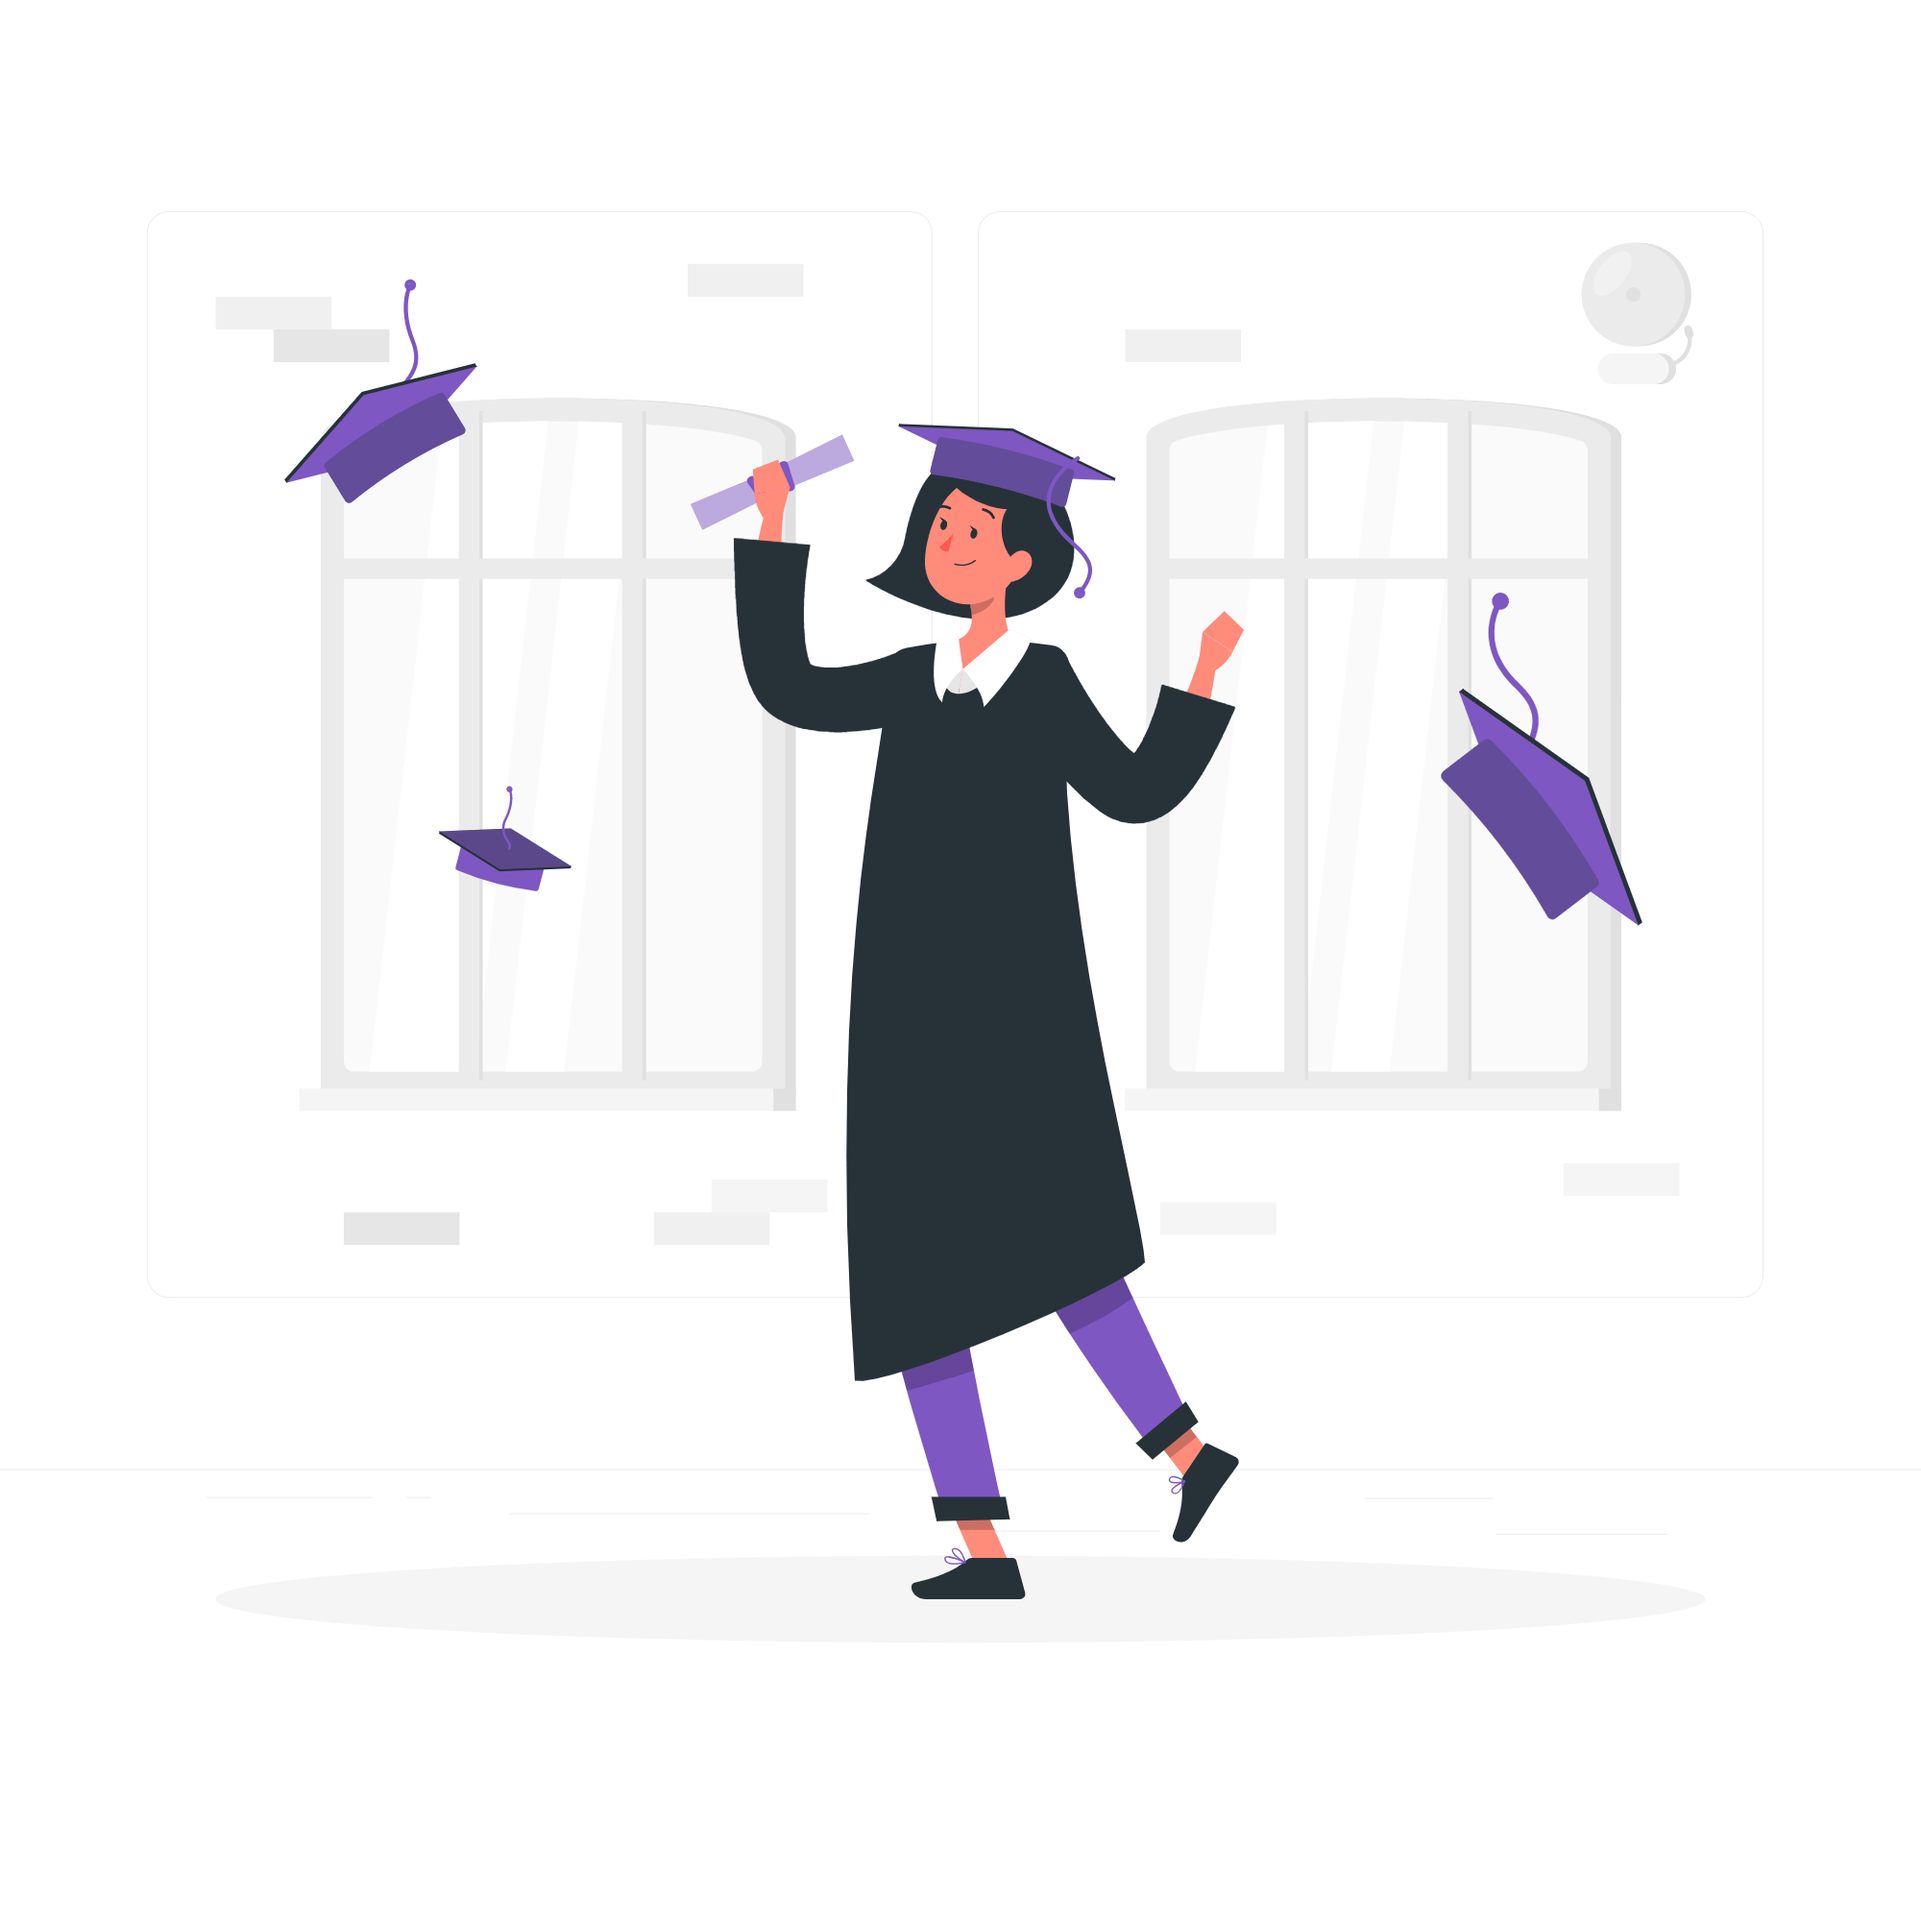
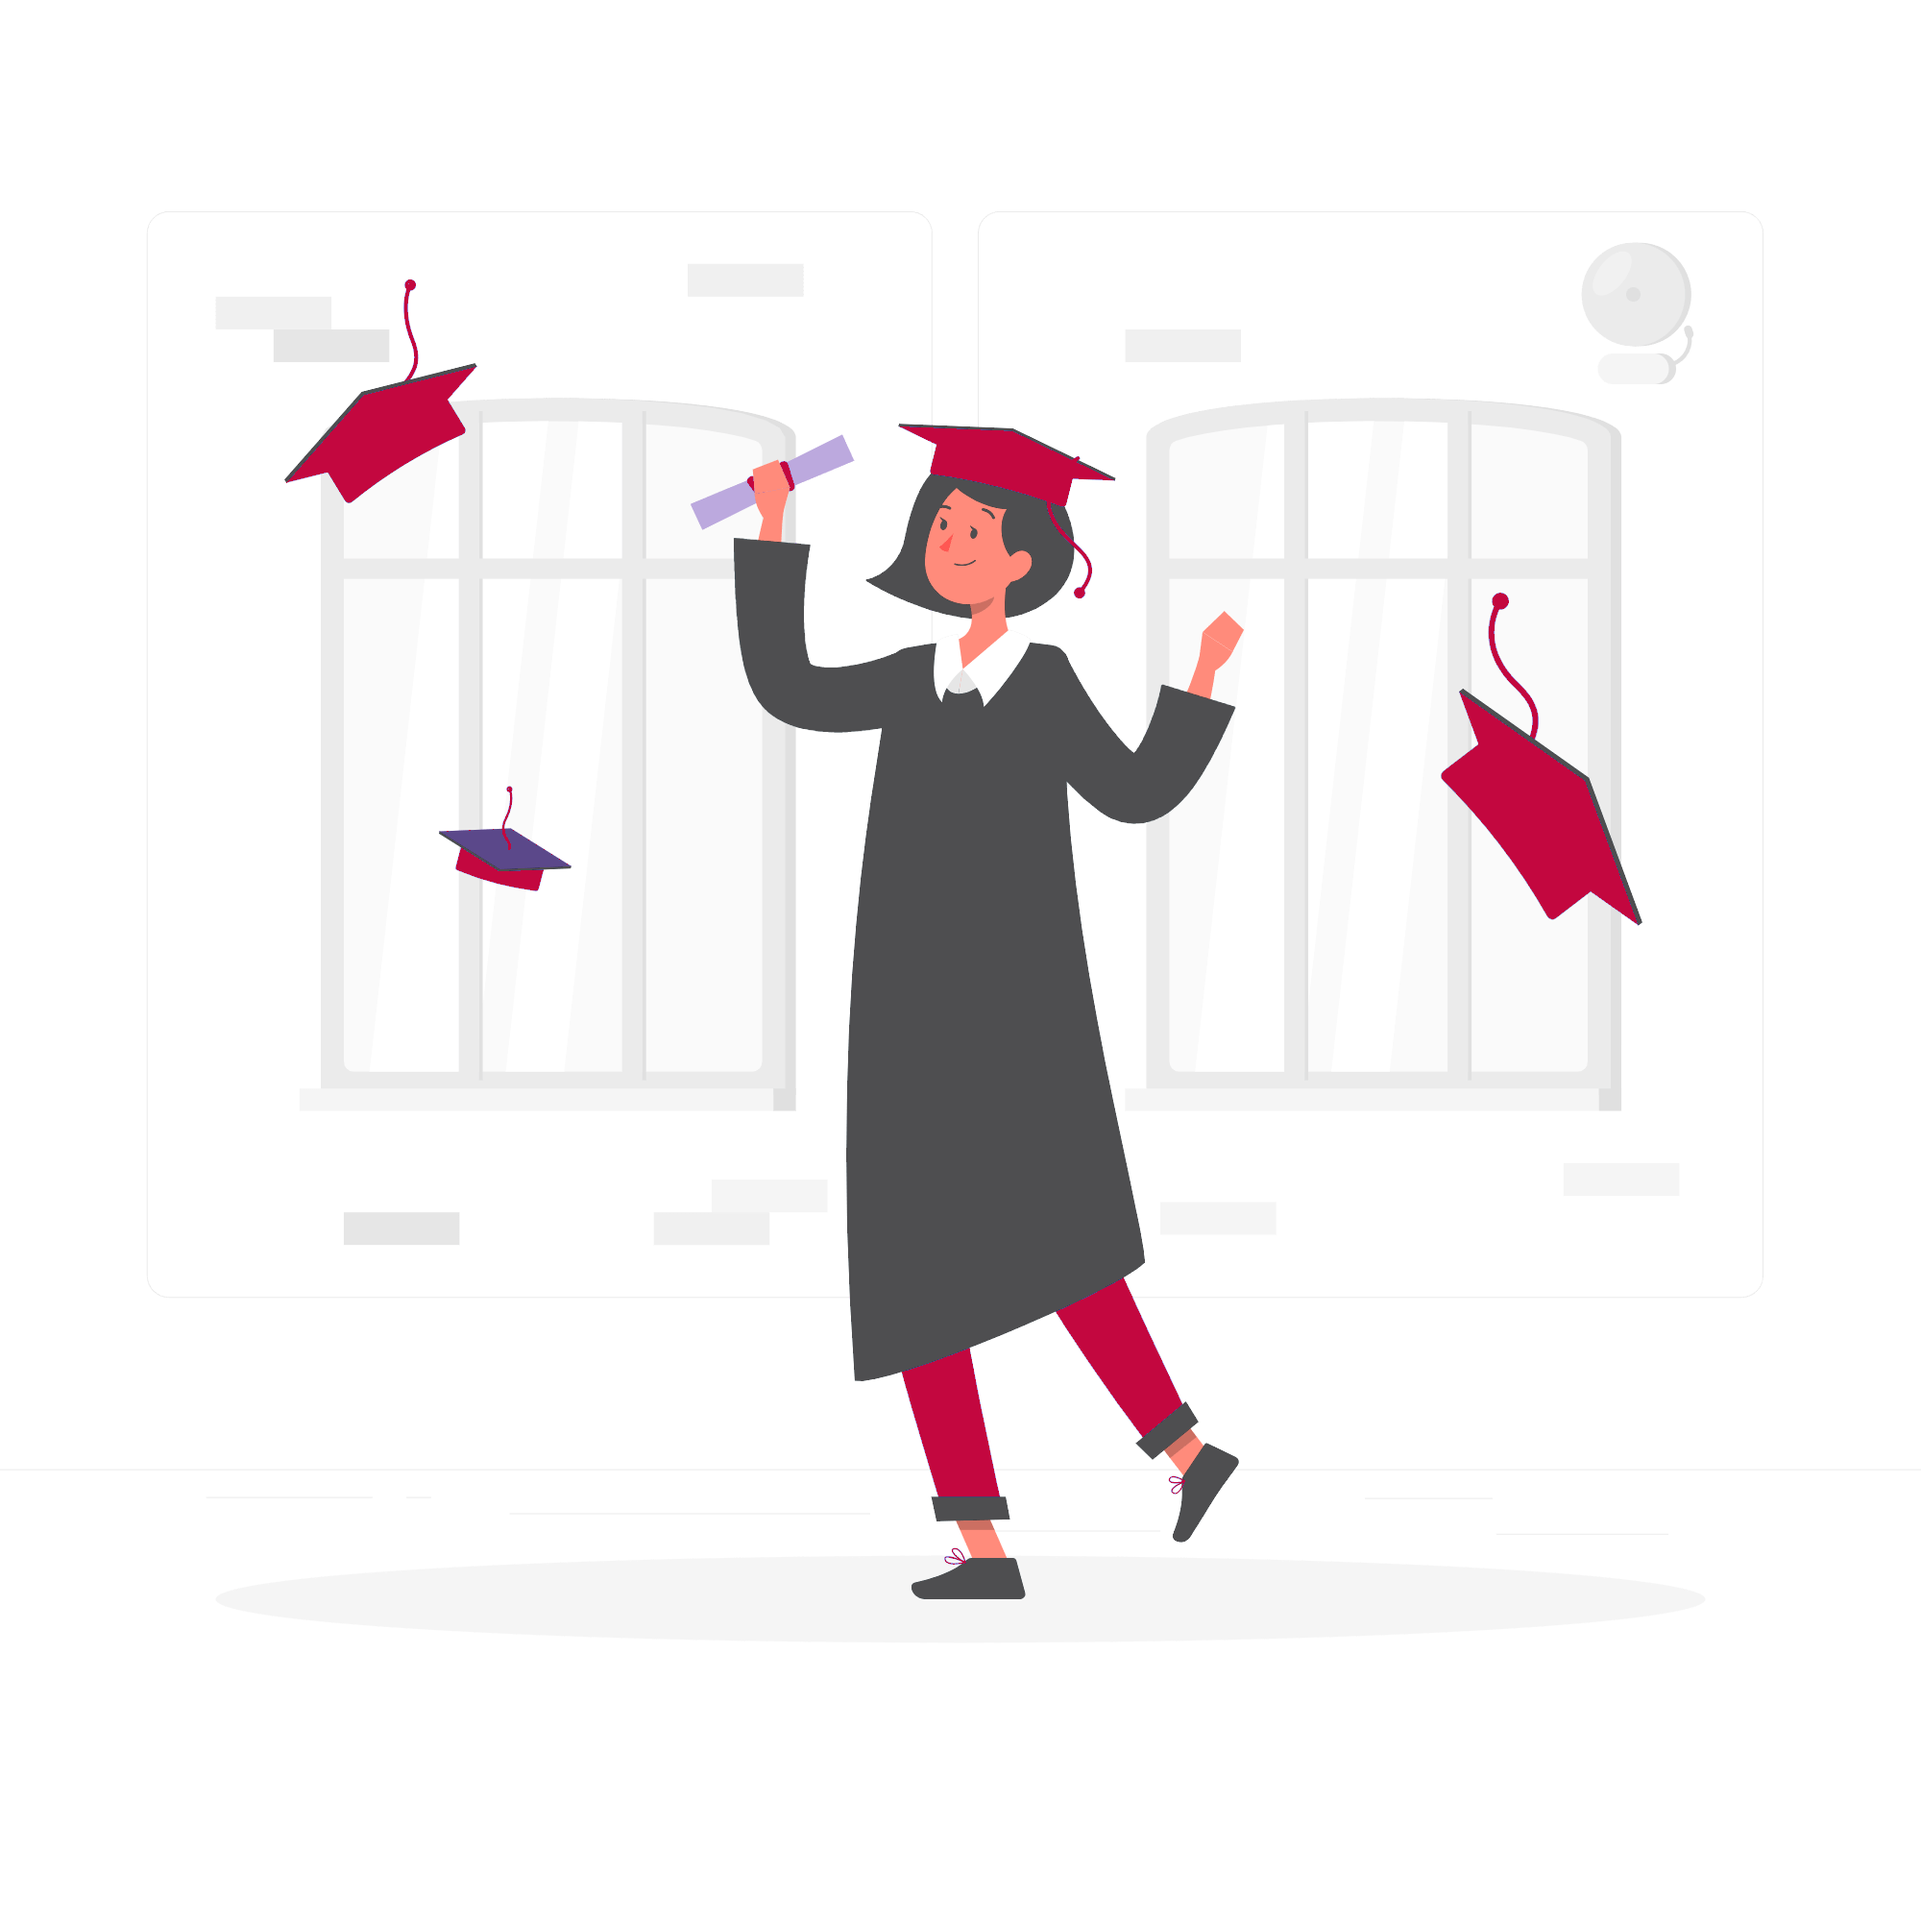
special skills and img responsive

diff --git a/src/Components/Education.js b/src/Components/Education.js
@@ -4,42 +4,52 @@ import './component.css';
 function Education() {
   return (
     <div className="educational container justify-content-center">
-      <div className="row">
-      <div className="col-lg-9">
-        <div class="rb-container">
-        <div className="title pb-3">Educational Qualification</div>
-          <ul class="rb">
-            <li class="rb-item" ng-repeat="itembx">
-              <div className='content pt-n3'>
-                <h5>2017-2021</h5>
-                <div className='course pb-1'>B.Tech - IT  <span>CGPA - 7.89</span></div>
-                <p className='institute'>Government College of Technology, Coimbatore</p>
-              </div>
-            </li>
-            <li class="rb-item" ng-repeat="itembx">
-            <div className='content'>
-            <h5>2016-2017</h5> 
-            <div className='course pb-1'>HSC <span>Percentage - 96%</span></div>
-            <p className='institute' >Vetri Vikaas Girls Higher Sec School, Mallur</p>
-              </div>
-            </li>
+      <div className="ow d-flex justify-content-center align-items-center ">
+        <div className="col-md-8">
+          <div class="rb-container">
+            <div className="title pb-3">Educational Qualification</div>
+            <ul class="rb">
+              <li class="rb-item" ng-repeat="itembx">
+                <div className='content pt-n3'>
+                  <h5>2017-2021</h5>
+                  <div className='row'>
+                    <div className='course pb-1 col-sm-4'>B.Tech - IT</div>
+                    <span className='course pb-1 col-sm-8'>CGPA - 7.89</span>
+                  </div>
 
-            <li class="rb-item" ng-repeat="itembx">
-            <div className='content'>
-            <h5>2014-2015</h5>
-            <div className='course pb-1'>SSLC <span>Percentage - 94%</span></div>
-            <p className='institute'>Government Girls Higher Sec School, Odugathur</p>
-              </div>
-            </li>
+                  <p className='institute'>Government College of Technology, Coimbatore</p>
+                </div>
+              </li>
+              <li class="rb-item" ng-repeat="itembx">
+                <div className='content'>
+                  <h5>2016-2017</h5>
+                  <div className='row'>
+                    <div className='course pb-1 col-sm-4'>HSC</div>
+                    <span className='course pb-1 col-sm-8'>Percentage - 96%</span>
+                  </div>
+                  <p className='institute' >Vetri Vikaas Girls Higher Sec School, Mallur</p>
+                </div>
+              </li>
 
-          </ul>
+              <li class="rb-item" ng-repeat="itembx">
+                <div className='content'>
+                  <h5>2014-2015</h5>
+                  <div className='row'>
+                    <div className='course pb-1 col-sm-4'>SSLC</div>
+                    <span className='course pb-1 col-sm-8'>Percentage - 94%</span>
+                  </div>
+                  <p className='institute'>Government Girls Higher Sec School, Odugathur</p>
+                </div>
+              </li>
 
+            </ul>
+
+          </div>
+        </div>
+        <div className="col-md-4">
+          <img src='./education.png' alt="" />
         </div>
       </div>
-      <div className="col-lg-3">
-      <img src='./education.png' alt=""/>
-      </div>
-        </div>
 
     </div>
   );

diff --git a/src/Components/component.css b/src/Components/component.css
@@ -19,8 +19,7 @@ h1 {
 }
 
 .about img,
-.experience img,
-.educational img {
+.experience img, .specailskills img, .educational img{
     width: 97%;
     margin-left: auto;
     margin-right: auto;
@@ -153,6 +152,17 @@ ul.rb li .content .institute {
 }
 
 /* specailskills */
+.specailskills li {
+    font-size: calc(0.75rem + 0.5vw);
+    color: #fff;
+    text-align: left;
+}
+
+.specailskills li img{
+    height: 40px;
+    height: 30px;
+}
+
 .specailskills li,
 .hobbies li {
     font-size: calc(0.75rem + 0.5vw);
@@ -161,14 +171,28 @@ ul.rb li .content .institute {
 
 .specailskills .icons,
 .hobbies .icons {
-    width: 50px;
-    height: 50px;
-    padding: 3px;
+    width: 20px;
+    height: 20px;
+    margin: 10px;
+    color: #fff;
+    border: 0.5px solid #C3073F;
+    /* background-color: #C3073F; */
+    border-radius: 50%;
+}
+
+.specailskills .icons:hover{
+    border: 1px solid rgba(255, 255, 255, 1);
+    border-radius: 50%;
     color: #C3073F;
 }
 
+.bulletin {
+    margin: 0 calc(4rem + 2vw);
+    /* line-height: 0.5rem; */
+}
+
 .iconsize {
-    margin: 0 calc(1rem + 1vw);
+    padding: 0 calc(1rem + 1vw);
     line-height: 1rem;
 }
 
@@ -177,8 +201,7 @@ ul.rb li .content .institute {
     background: white;
     color: #C3073F;
     cursor: pointer;
-    /* color:  #4E4E50; */
-    transform: scaleX(1px);
+    /* transform: scaleX(1px); */
 }
 
 /* Projects */
@@ -188,8 +211,9 @@ ul.rb li .content .institute {
 }
 
 .projects img {
-    width: 80%;
-    height: 100%
+    width: 100%;
+    height: auto;
+    object-fit: cover;
 }
 
 .projects h3 {
@@ -325,4 +349,76 @@ ul.rb li .content .institute {
     100% {
         transform: translateY(0px);
     }
+}
+
+.project {
+	background-color: #C3073F;
+	border-radius: 10px;
+	box-shadow: 0 10px 10px rgba(0, 0, 0, 0.2);
+	display: flex;
+	max-width: 100%;
+	margin: 20px;
+	overflow: hidden;
+
+	/* width: 700px; */
+}
+
+.project h6 {
+	opacity: 0.6;
+	margin: 0;
+	letter-spacing: 1px;
+	text-transform: uppercase;
+}
+
+.project h2 {
+	letter-spacing: 1px;
+	margin: 10px 0;
+}
+
+.project-preview {
+	background-color: #fff;
+	color: #C3073F;
+	padding: 30px;
+	max-width: 60%;
+}
+
+.project-preview p{
+	color: #C3073F;
+}
+
+.project-preview a {
+	color: #C3073F;
+	display: inline-block;
+	font-size:calc(0.75rem + 0.5vw);;
+	opacity: 0.6;
+	margin-top: 30px;
+	text-decoration: none;
+}
+
+.project-info {
+	position: relative;
+	width: 100%;
+    color: #1A1A1D;
+}
+
+.progress-container {
+	position: absolute;
+	top: 30px;
+	right: 30px;
+	text-align: right;
+	width: 150px;
+}
+
+.btn {
+	background-color: #2A265F;
+	border: 0;
+	border-radius: 50px;
+	box-shadow: 0 10px 10px rgba(0, 0, 0, 0.2);
+	color: #fff;
+	font-size: 16px;
+	padding: 12px 25px;
+	position: absolute;
+	bottom: 30px;
+	right: 30px;
+	letter-spacing: 1px;
 }

diff --git a/src/Components/SpecialSkills.js b/src/Components/SpecialSkills.js
@@ -1,24 +1,34 @@
-import * as CgIcon  from "react-icons/cg";
 import './component.css';
+import * as CgIcon  from "react-icons/cg";
 
 function Specailskills() {
-    return(
+    return (
         <div class="specailskills container">
-        <div className="title">Special Skills</div>
-        <div className="row justify-content-center"><hr className="headingline"></hr> </div>
-        <div className="row d-flex justify-content-center mb-1 ">
-        <ul>
-            <div className="d-flex iconsize"><CgIcon.CgCheck className="icons"/><li>C, C++</li></div>
-            <div className="d-flex iconsize"><CgIcon.CgCheck className="icons"/><li>HTML5, CSS3</li></div>
-            <div className="d-flex iconsize"><CgIcon.CgCheck className="icons"/><li>ReactJS</li></div>
-            <div className="d-flex iconsize"><CgIcon.CgCheck className="icons"/><li>Mysql</li></div>
-            <div className="d-flex iconsize"><CgIcon.CgCheck className="icons"/><li>Unreal Engine 4</li></div>
-        </ul>
-        </div>
-        <hr className="line"></hr>
+            <div className="row d-flex justify-content-center align-items-center mb-1">
+                <div className='col-md-4'>
+                    <img src='./skills.gif' alt="" />
+                </div>
+                <div className='col-md-7'>
+                    <div className="title">Special Skills</div>
+                    <div className='row justify-content-center'>
+                        <ul>
+                        <div className="d-flex bulletin"><CgIcon.CgCheck className="icons"/><li>Html, Css</li></div>
+                        <div className="d-flex bulletin"><CgIcon.CgCheck className="icons"/> <li>Javascript</li></div>
+                        <div className="d-flex bulletin"><CgIcon.CgCheck className="icons"/> <li>React</li></div>
+                        <div className="d-flex bulletin"><CgIcon.CgCheck className="icons"/> <li>Node</li></div>
+                        <div className="d-flex bulletin"><CgIcon.CgCheck className="icons"/> <li>Mysql, PostgreSql</li></div>
+                        <div className="d-flex bulletin"><CgIcon.CgCheck className="icons"/>  <li>Sequelize</li></div>
+                        <div className="d-flex bulletin"><CgIcon.CgCheck className="icons"/> <li>C, C++</li></div>
+                        <div className="d-flex bulletin"><CgIcon.CgCheck className="icons"/>  <li>Unreal Engine 4</li></div>
+                        </ul>
+                    </div>
+
+                </div>
+            </div>
+            <hr className="line"></hr>
         </div>
 
-);
+    );
 }
 
 export default Specailskills;

diff --git a/src/Components/About.js b/src/Components/About.js
@@ -12,9 +12,9 @@ function About() {
   return (
     <div id="About" className="about container">
       <div className="row">
-        <div className="section col-12 col-lg-8">
+        <div className="section col-md-8">
           <div className="title">About Me</div>
-          <div class="row d-flex justify-content-center mb-1">
+          <div class="ow d-flex justify-content-center align-items-center mb-1">
             <div class="col-md-10 pb-4 ml-4">
               <p>A Passionate Learner who wants to explore the joy of innovation with programming in all possible ways and tries to shine in every aspect of it.</p>
             </div>
@@ -26,7 +26,7 @@ function About() {
             <a className="iconsize" href="https://auth.geeksforgeeks.org/user/jeevithasakthi137/practice/" target="_blank" rel="noopener noreferrer"><img className="icons" onMouseOver={changeBackground} onMouseOut={changeOriginal} src='./1.png' alt="" /></a>
           </div>
         </div>
-        <div className="section col-lg-4">
+        <div className="section col-md-4 float-md-end ">
           <img src='./header.gif' alt=""/>
         </div>
       </div>

diff --git a/src/Components/Experience.js b/src/Components/Experience.js
@@ -4,11 +4,11 @@ import './component.css';
 function Experience() {
   return (
     <div className="experience container justify-content-center">
-      <div className="row">
-      <div className="col-lg-3">
+      <div className="row d-flex justify-content-center align-items-center ">
+      <div className="col-md-3">
       <img src='./experience.gif' alt=""/>
       </div>
-      <div className="col-md-12 col-lg-9">
+      <div className="col-md-9">
       <div className="title">Experience</div>
       <p className="ml-4">1 year 2 months as a Product Developer at SurveySparrow, currently debugging and fixing real time customer issues in the Survey Platform powered with React, Node, Postgres and Sequelize.</p>
       </div>

diff --git a/src/App.css b/src/App.css
@@ -13,16 +13,10 @@ html {
 
 .header {
     position: relative;
+    /* background-color: #4E4E50; */
     width: 100vw;
     height: 30vh;
     overflow: hidden;
-}
-
-.header video {
-    width: 100vmax;
-    position: absolute;
-    top: -10px;
-    left: 0;
 }
 
 .header .text {
